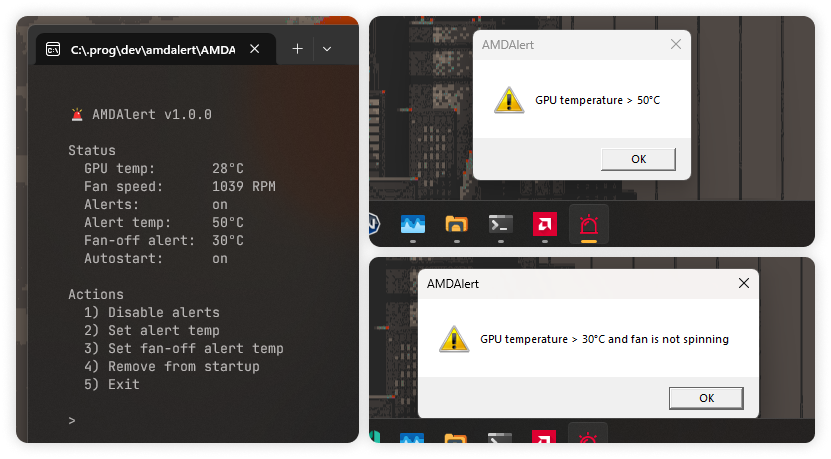
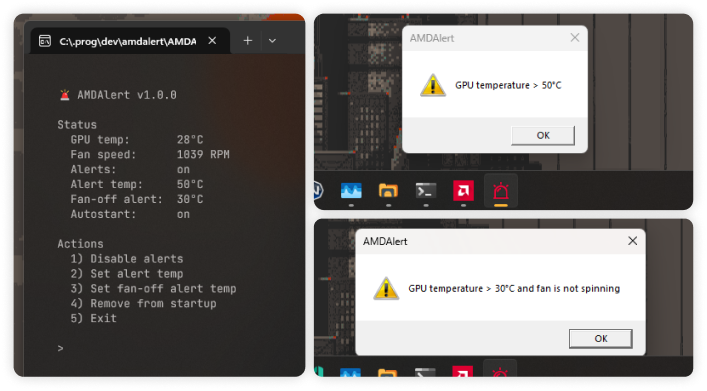
docs(readme): enrich documentation
- Add project overview, feature list, installation and usage instructions
- Include logo and demo screenshot

diff --git a/README.md b/README.md
@@ -1,0 +1,36 @@
+<div align="center">
+	<img alt="logo" src="assets/logo.png">
+	<br>
+	A lightweight Windows utility that <b>alerts you when your AMD GPU overheats</b><br>Perfect for older cards like the RX 550 where the fan may silently stop 🫠
+	<br><br>
+	<b>
+		<a href="#-features">Features</a>&nbsp; •&nbsp;
+		<a href="#-installation">Installation</a>&nbsp; •&nbsp;
+		<a href="#%EF%B8%8F-usage">Usage</a>
+	</b>
+	<br><br>
+	<img alt="demo" src="assets/demo.png">
+</div>
+
+## 🔥 Features
+
+- Monitors GPU state and triggers alerts on overheating
+- Detects fan failures (zero RPM under load)
+- Configurable temperature thresholds
+- Background service with Windows startup support
+
+## 📥 Installation
+
+Download the [latest release](https://github.com/kh4f/amdalert/releases/latest) and extract it anywhere.
+
+## 🕹 Usage
+
+- Control the app via CLI (`AMDAlert.exe`).
+- Configuration is stored in `settings.json` (created automatically on first run). You can edit it manually or via CLI commands.
+- Enabling alerts starts a background service (`AMDAlertDaemon.exe`) that checks the GPU state every 10 sec and shows notifications when needed.
+
+</br>
+
+<div align="center">
+  <b>MIT License © 2026 <a href="https://github.com/kh4f">kh4f</a></b>
+</div>
